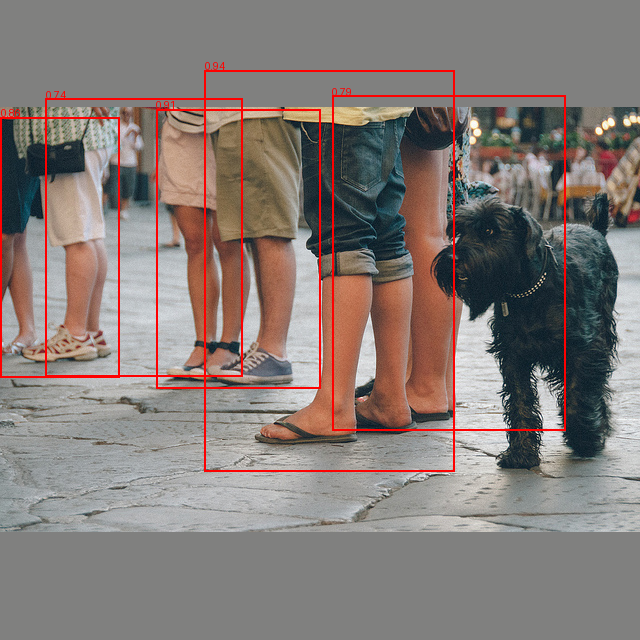
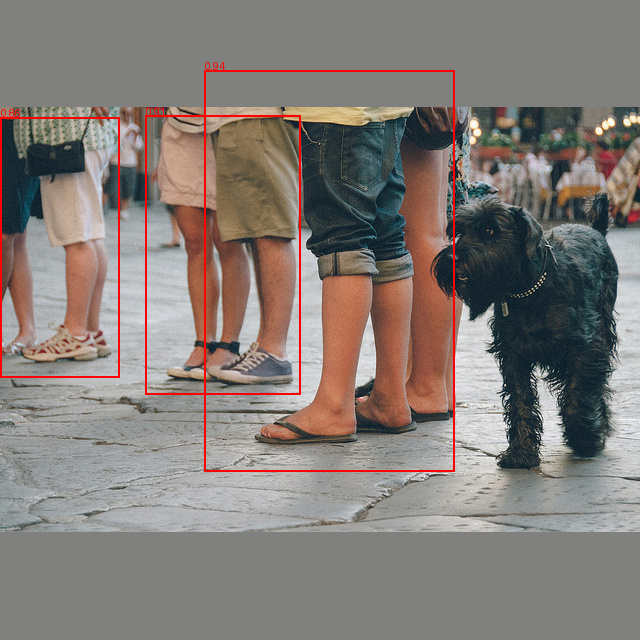
res

Changed region(s): [[0.2188, 0.125, 0.5625, 0.625], [0.0625, 0.125, 0.125, 0.1562], [0.0625, 0.5625, 0.0938, 0.5938]]

diff --git a/src/utils.py b/src/utils.py
@@ -97,7 +97,7 @@ def box_cxcywh_to_xyxy(boxes):
 def postprocess_single_image_predictions(
     raw_preds_single_image: torch.Tensor,
     conf_threshold_nms_candidate: float = 0.2,
-    iou_threshold_nms: float = 0.3
+    iou_threshold_nms: float = 0.25
 ):
     """
     단일 이미지에 대한 모델의 원시 예측값을 후처리하여 NMS를 적용합니다.

diff --git a/inference.py b/inference.py
@@ -8,7 +8,7 @@ import torch
 config = {
     'batch_size': 16,
     'input_size': (640, 640),
-    'conf_threshold': 0.7
+    'conf_threshold': 0.73
 
 }
 weight_file = 'best_w.pt'
